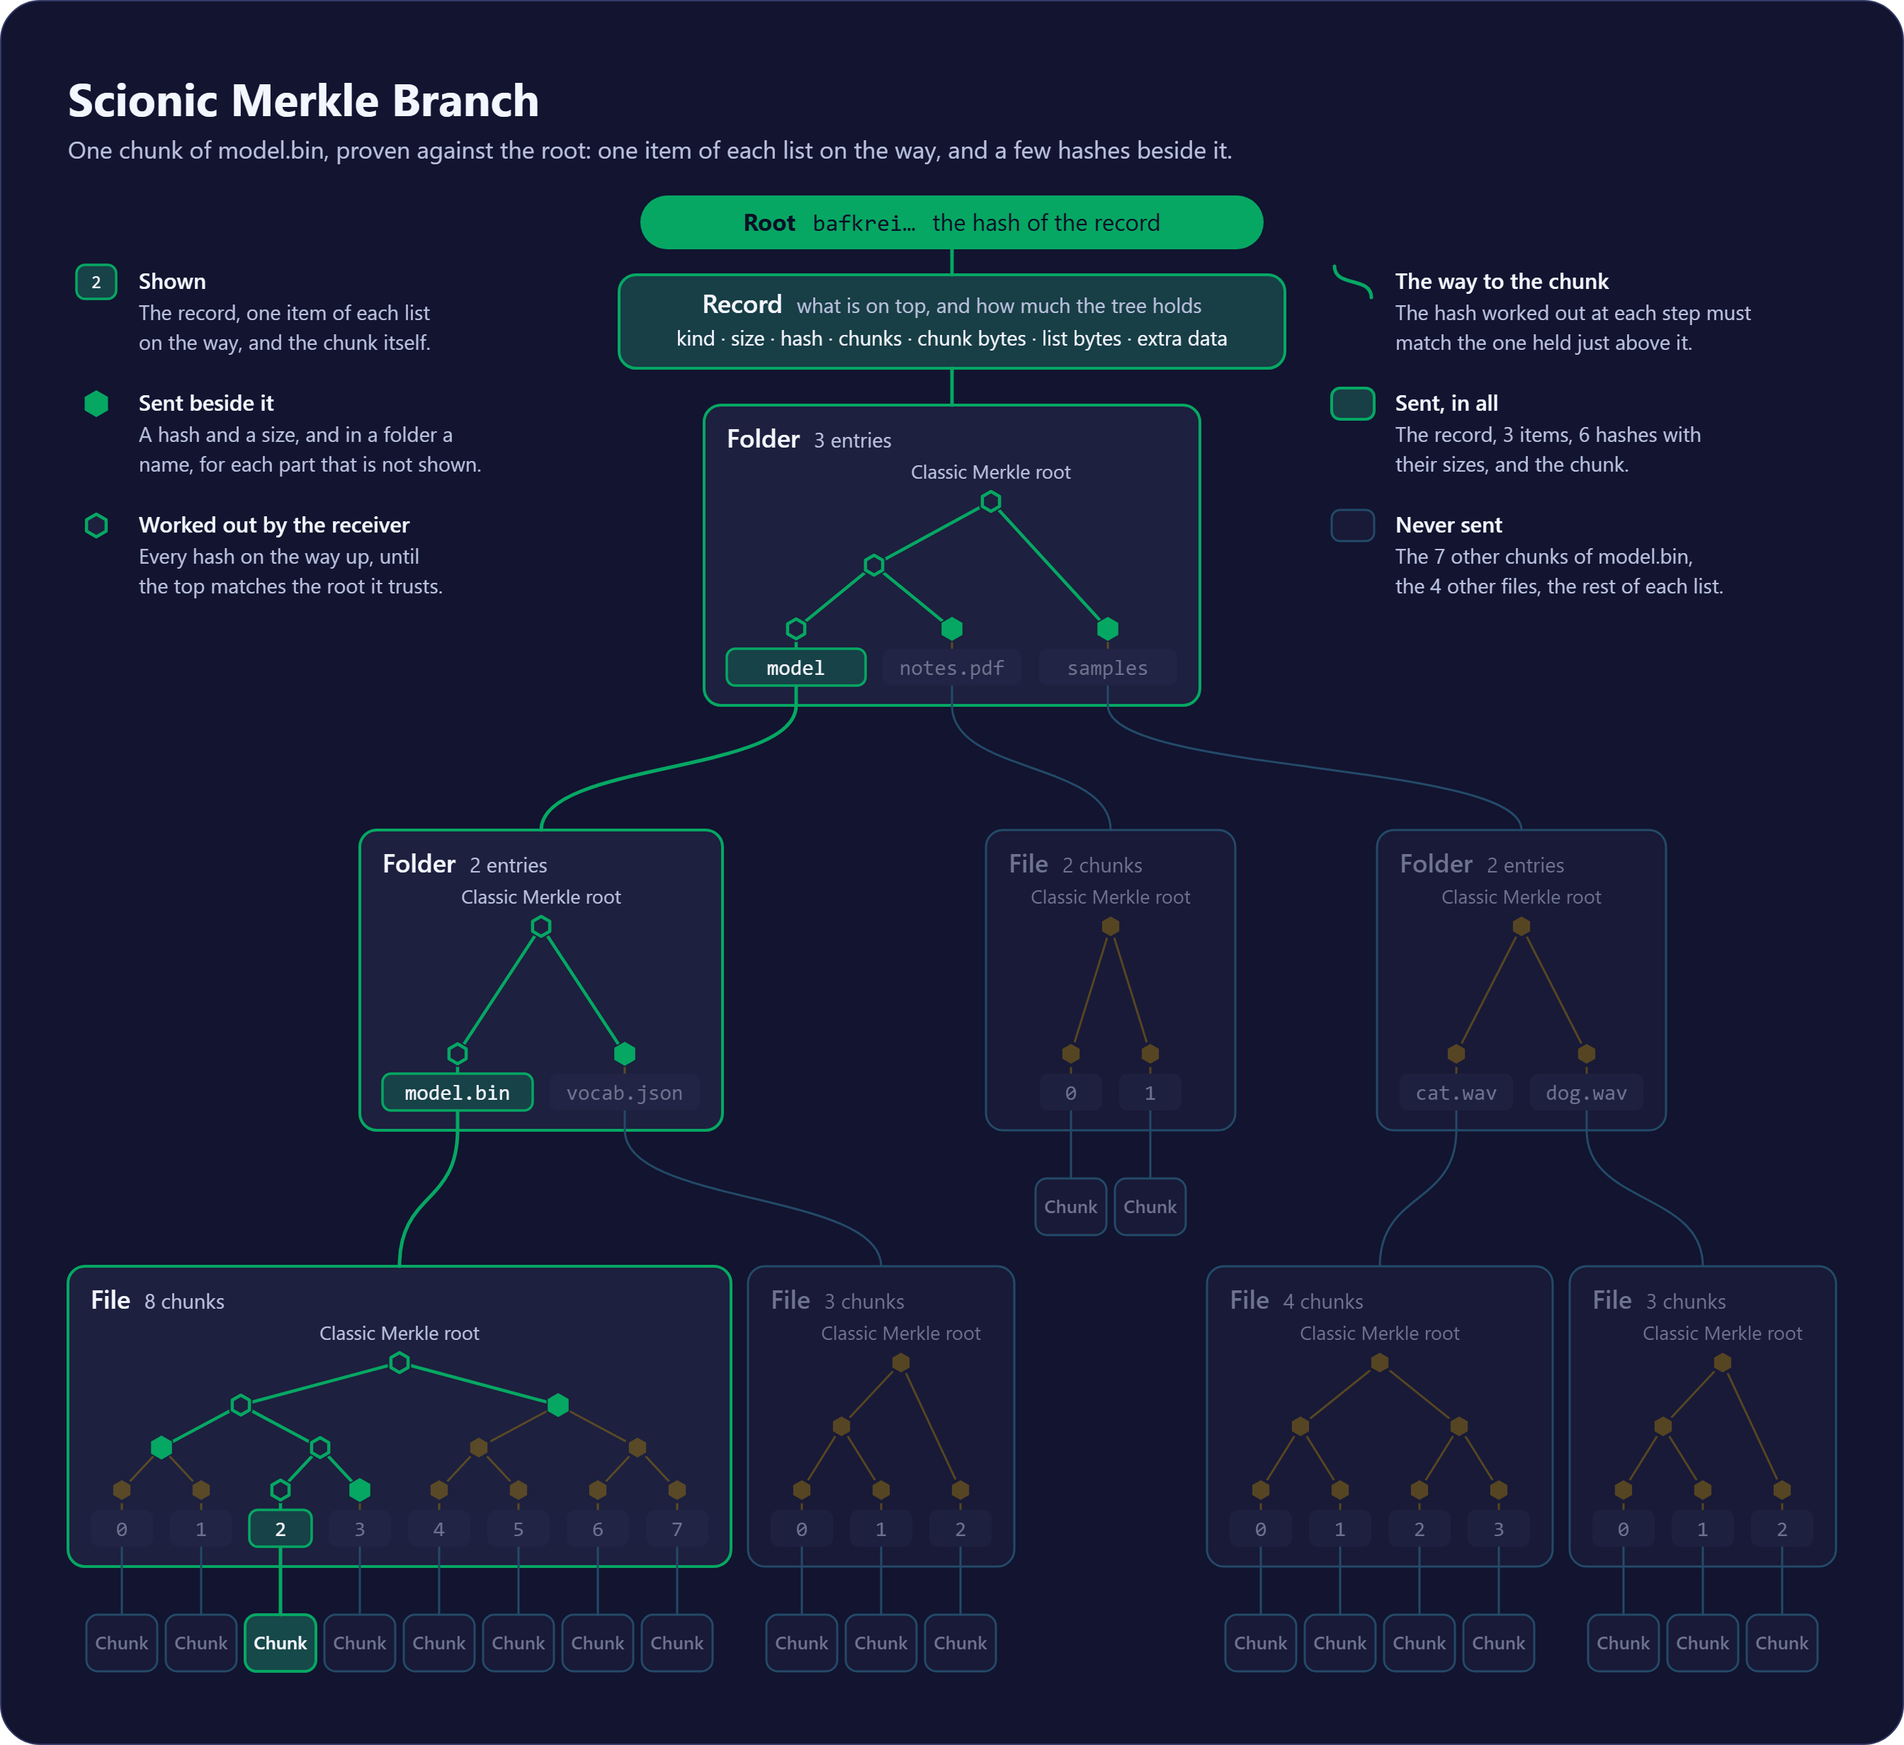
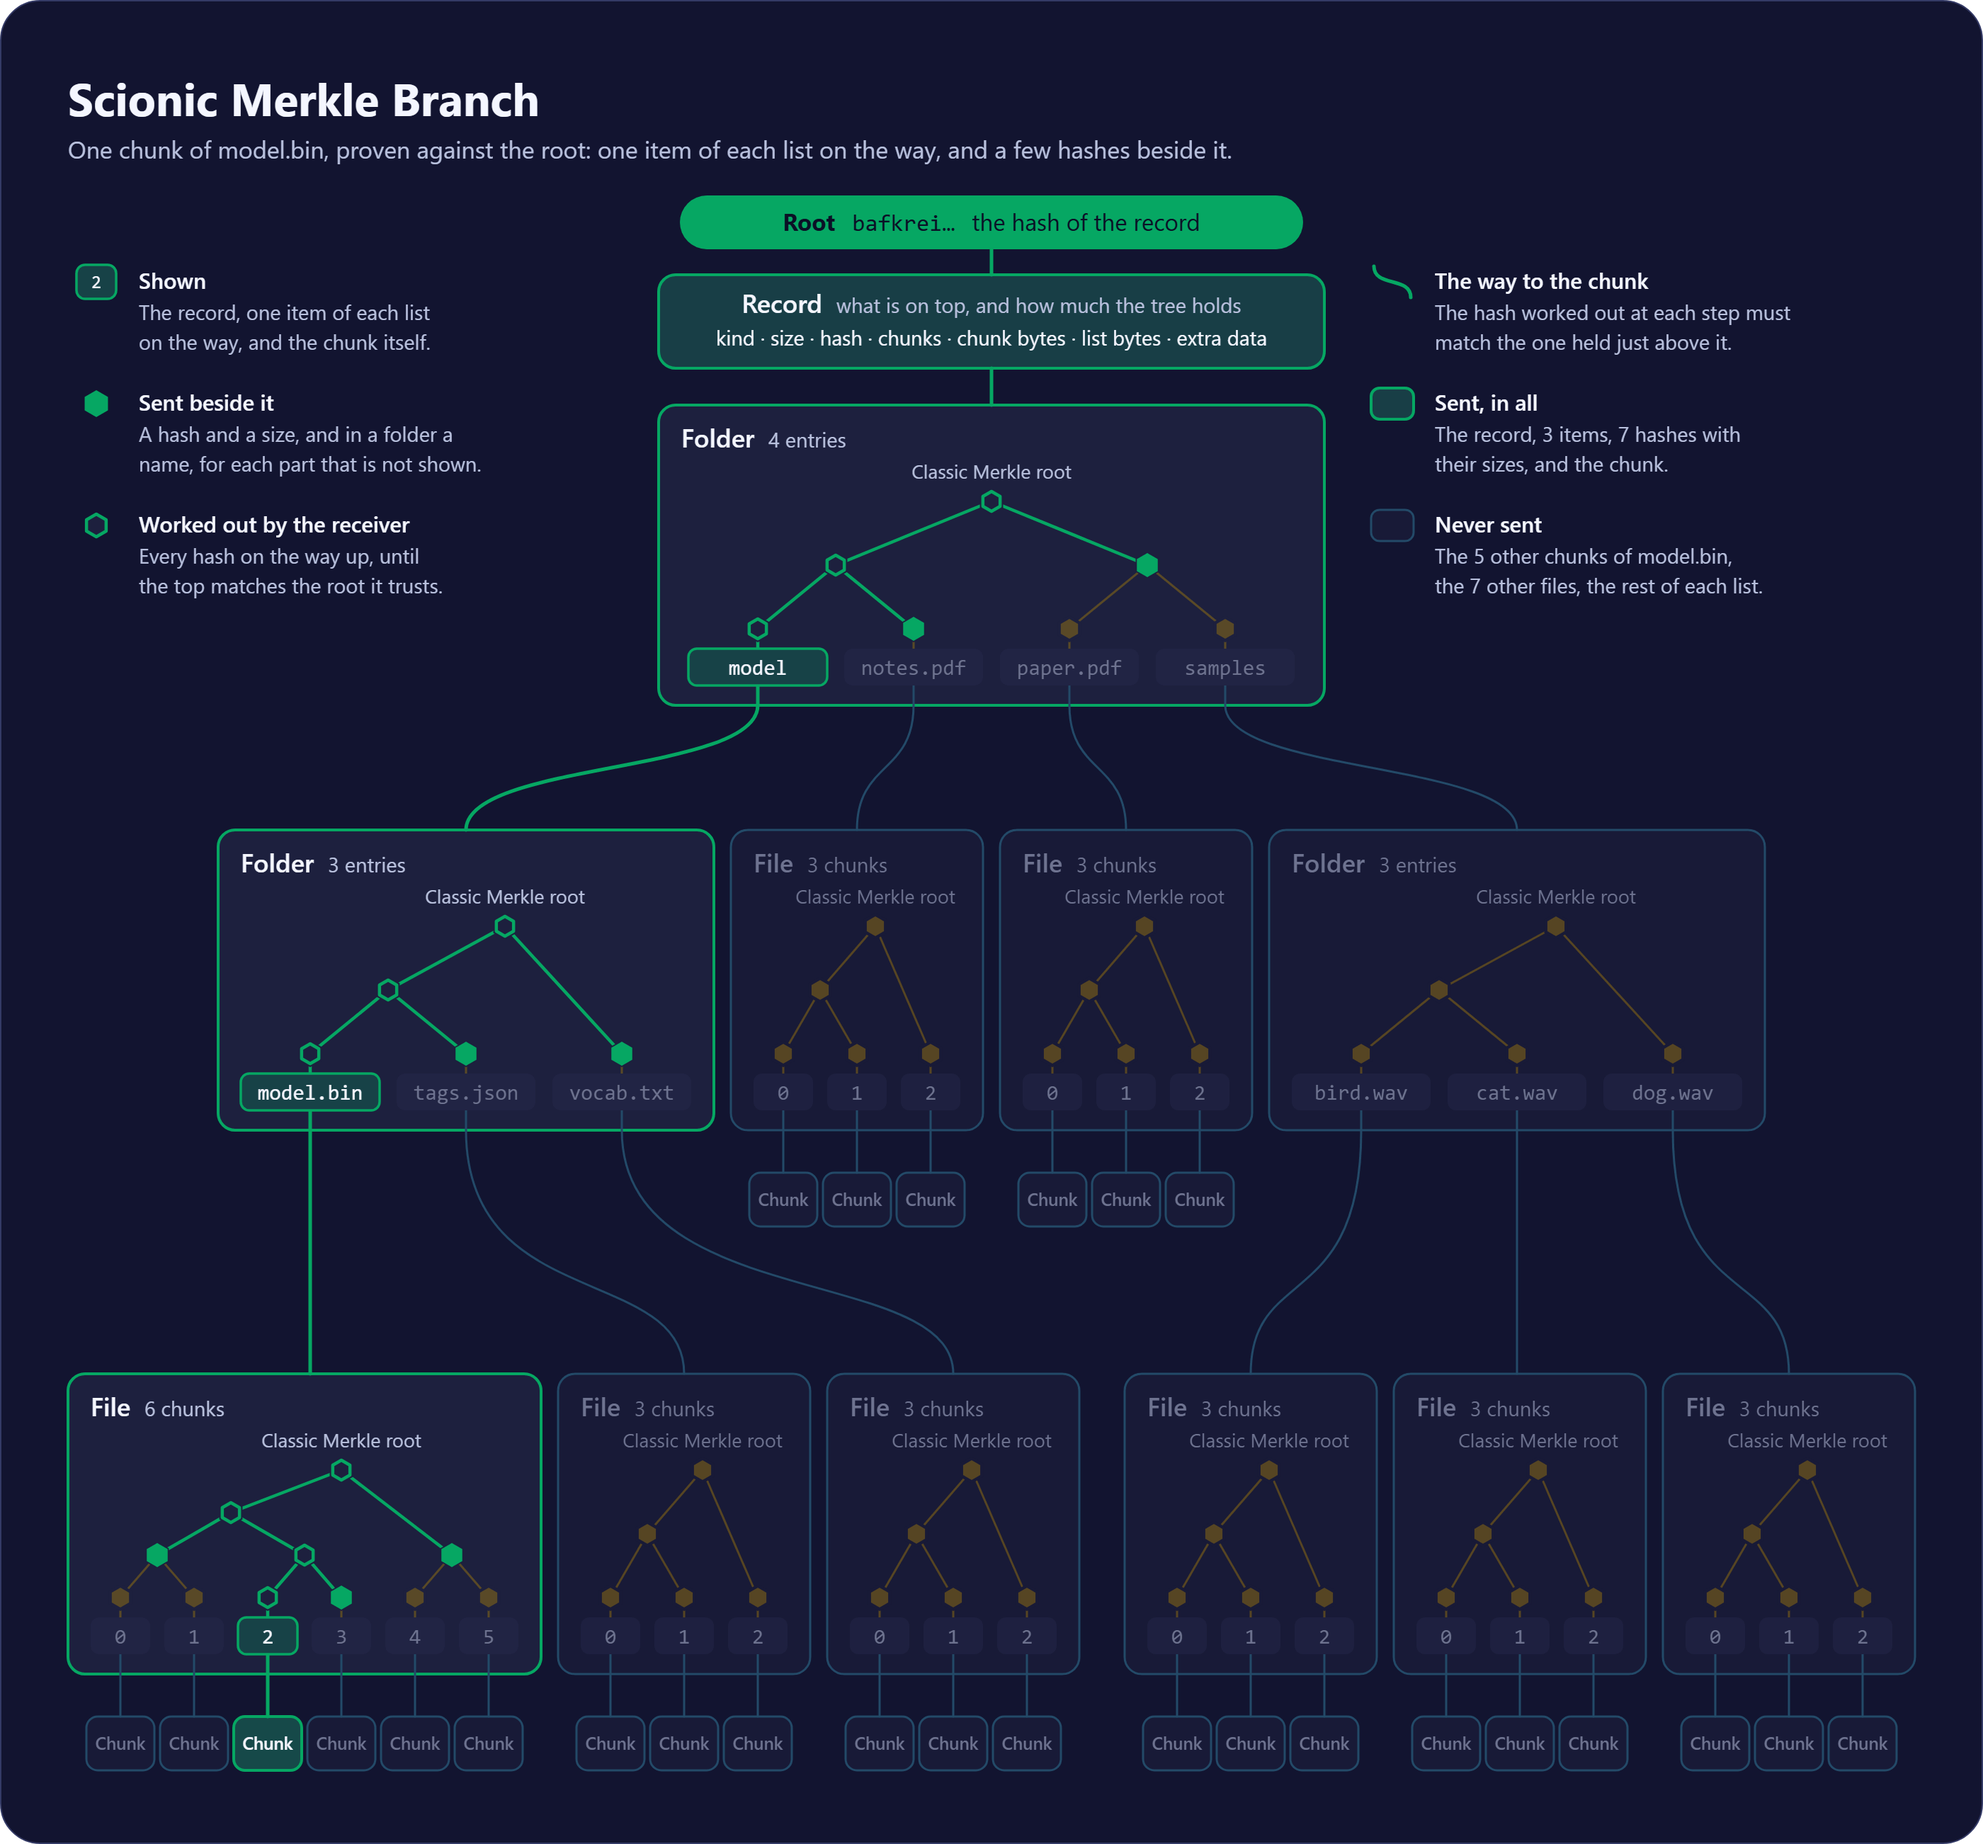
docs: no list of two in the tree pictures
The tree over two items is a single fork, which read as a triangle and not
as a tree. The file of two chunks was also the narrowest box of its row.

- The folder on top has four entries: a folder, two files and a folder.
  Each of those two folders has three files. That is eight files where
  there were five.
- Every file has three chunks or more. The first has six where it had
  eight, so that the bottom row holds six files.
- The program refuses a folder with fewer than three entries, and a file
  with fewer than three chunks.
- The two tree pictures are 1,400 units wide, 56 more than the table, so
  that nothing in them is drawn smaller than it was.
- The second row is the entries of the folder on top, side by side. The
  links from its two folders pass under the chunks that hang from its two
  files.

diff --git a/docs/pictures/README.md b/docs/pictures/README.md
@@ -29,10 +29,11 @@ python docs/pictures/shrink.py <folder>/scionic-merkle-branch.png docs/pictures/
 Everything a picture says is at the top of `pictures.mjs` or in the function that draws it:
 
 - **`SYNC`** is the name of the protocol that asks for a file's chunks by their numbers.
-- **`TOP`, `LEFT` and `RIGHT`** are the names in the example tree: the folder on top holds a folder, a file and a folder, and each of those two folders holds two files. The names must be in the order of their bytes, as a folder's entries are, and the program refuses them otherwise.
-- **`CHUNKS`** is how many chunks each file has. Every file is drawn the way a folder is: a box with the Classic Merkle tree over its list, its chunks' numbers under the tree's leaves, and its chunks under those. A file in these pictures has two chunks or more, so that its tree can be seen, and the program refuses a file with fewer. The format itself has smaller files: one of 512 KiB or less is a single chunk, and its tree is that one leaf.
+- **`TOP`, `LEFT` and `RIGHT`** are the names in the example tree: the folder on top holds a folder, two files and a folder, and each of those two folders holds three files. The names must be in the order of their bytes, as a folder's entries are, and the program refuses them otherwise. The first and the last name of `TOP` are the two folders.
+- **`CHUNKS`** is how many chunks each file has. Every file is drawn the way a folder is: a box with the Classic Merkle tree over its list, its chunks' numbers under the tree's leaves, and its chunks under those.
+- **No list in these pictures has fewer than three items.** The tree over two items is a single fork, which does not look like a tree. So the program refuses a folder with fewer than three entries, and a file with fewer than three chunks. The format itself has smaller ones: a file of 512 KiB or less is a single chunk, and its tree is that one leaf.
 - **Every folder and file box has one height,** that of the deepest tree, so that the boxes of a row line up at the top and at the bottom. A tree of fewer levels is drawn as tall as the deepest: every Classic Merkle root stands at one height in its box, and so does every leaf.
-- **The bottom row fills the picture from edge to edge.** If the files are given more chunks than fit, the program refuses them, and says how much room is left and how much is needed.
+- **The two tree pictures are 1,400 units wide,** a little wider than the table, so that the bottom row holds six files with their chunks at a size that can be read. If the files are given more chunks than fit, the program refuses them, and says how much room they take and how much there is.
 - **`PROVEN`** is the chunk that the branch picture proves, in the first file of the first folder. What is shown, what is sent beside it and what the receiver works out follow from it by the rule in [`spec/FORMAT.md`](../../spec/FORMAT.md), under "Showing a part".
 - **The rows of the table** are in `table()`.
 
